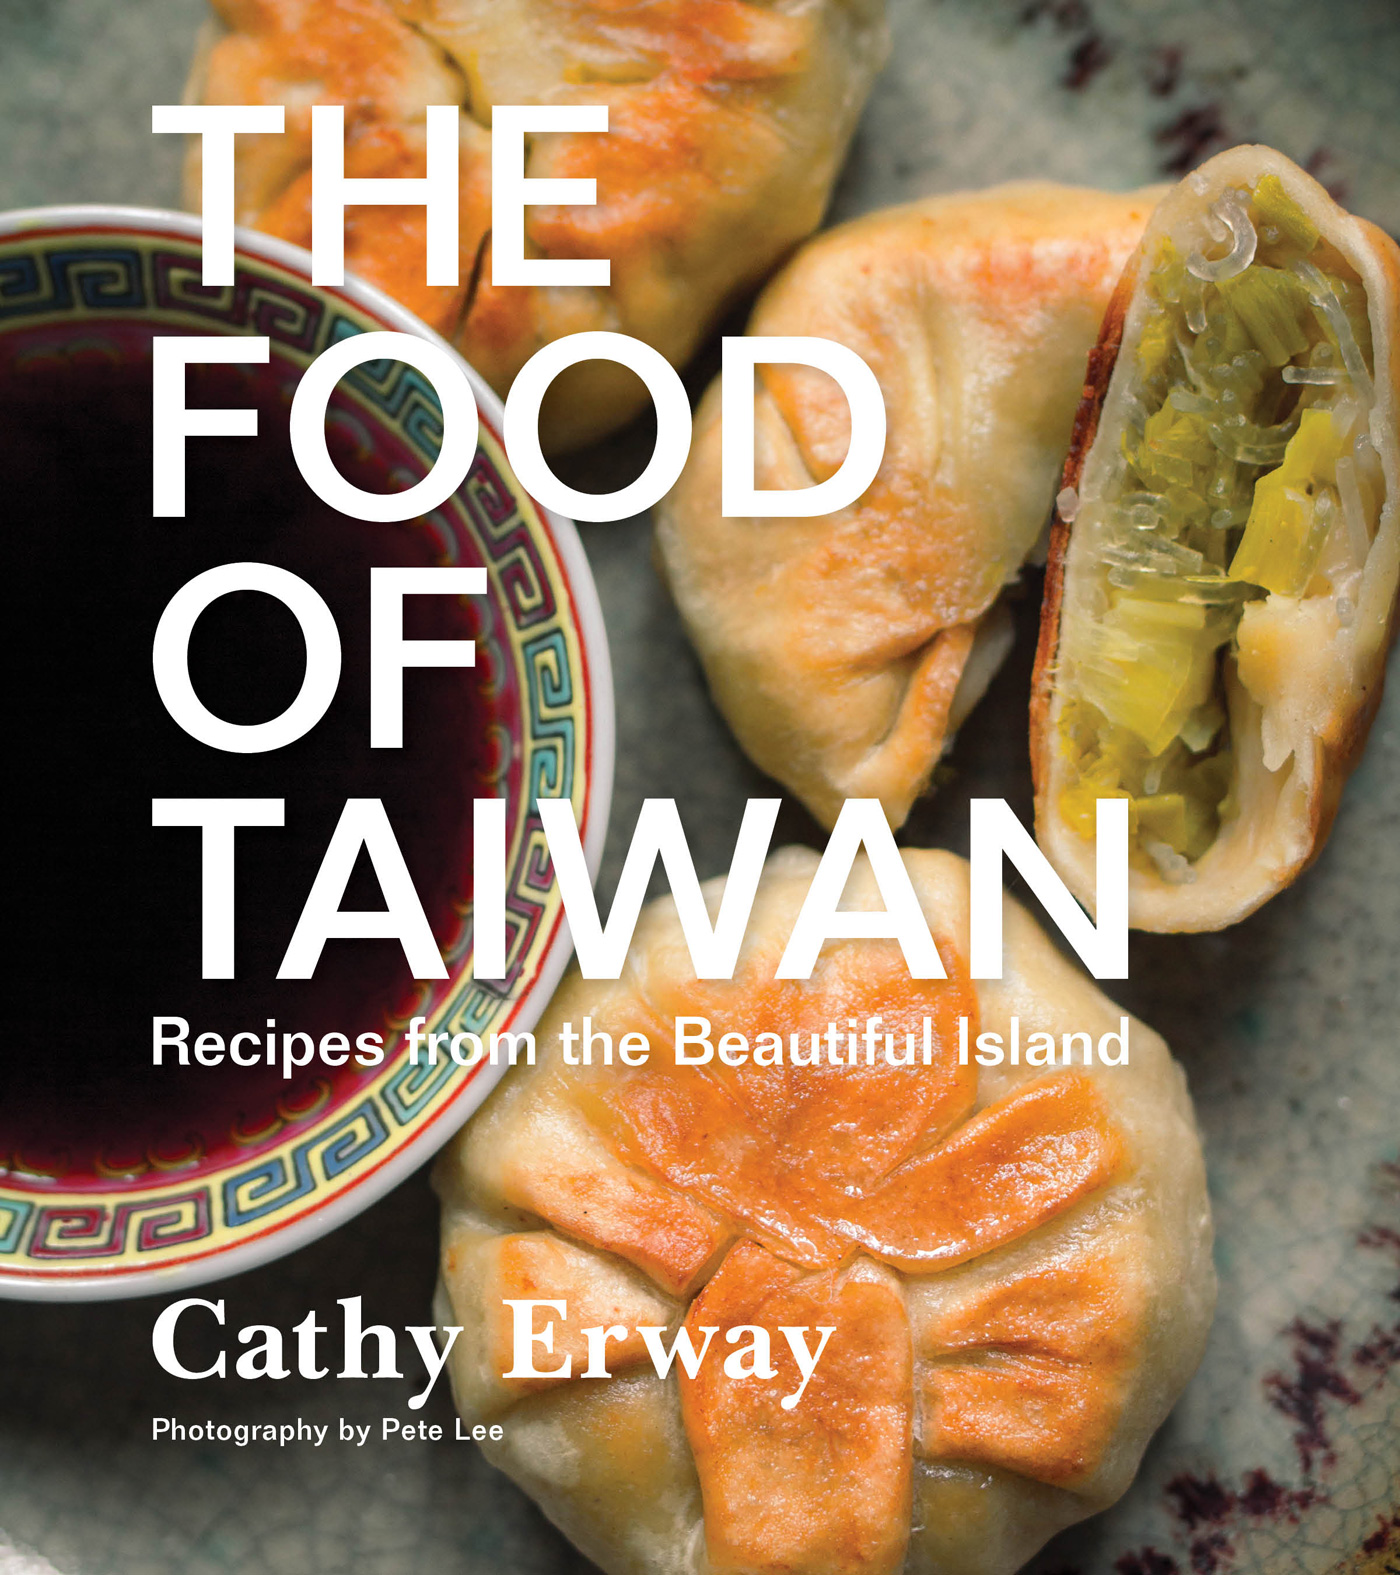
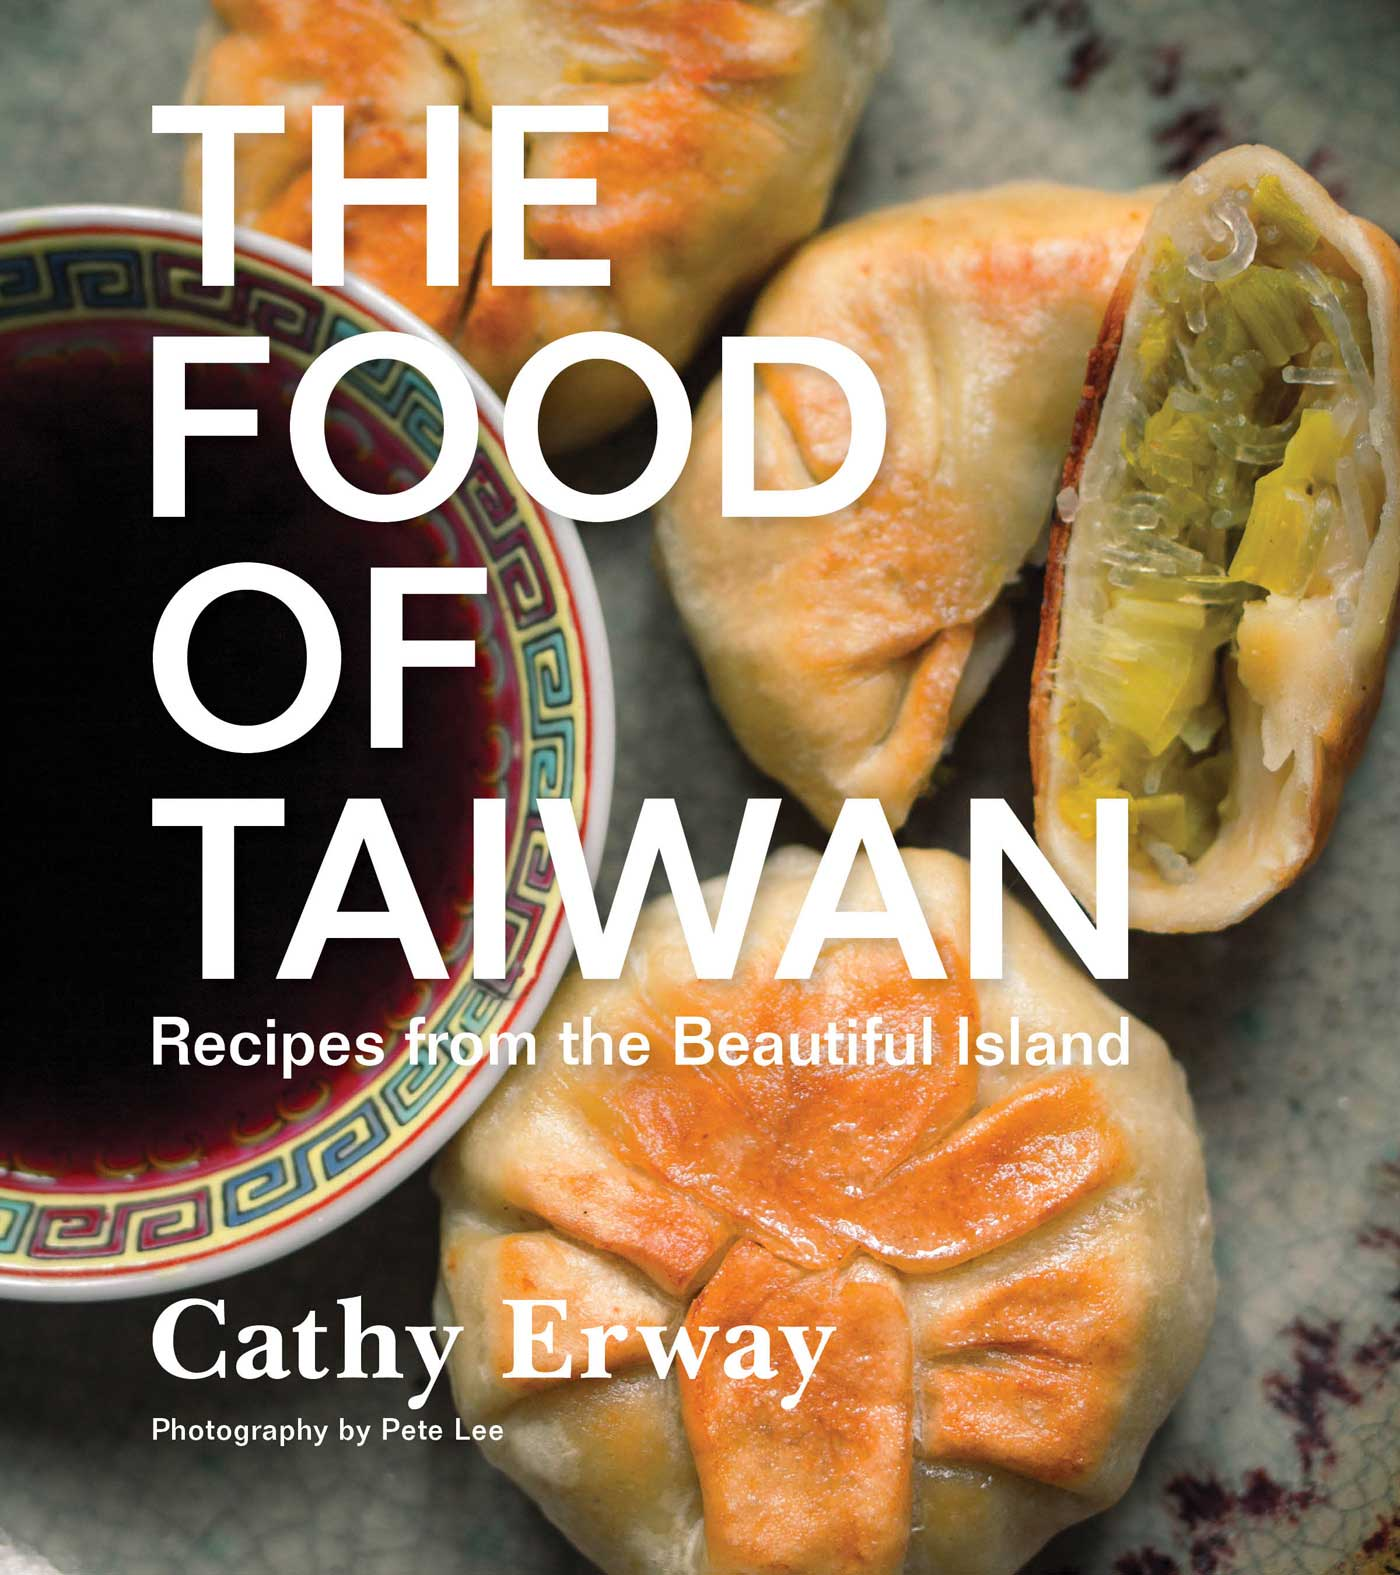
little layout, made book image smaller

diff --git a/css/style.css b/css/style.css
@@ -5,6 +5,9 @@ body {
   -o-background-size: cover;
   background-size: cover; }
 
+#book-img {
+  border-radius: 5px; }
+
 .full-width-col {
   padding: 0; }
 
@@ -26,5 +29,5 @@ body {
 
 @media only screen and (min-width: 40.063em) {
   .top-bot-padding {
-    padding-top: 1em;
-    padding-bottom: 1em; } }
+    padding-top: 1.5em;
+    padding-bottom: 1.5em; } }

diff --git a/sass/style.scss b/sass/style.scss
@@ -8,6 +8,9 @@ body {
 	background-size: cover;
 }
 
+#book-img {
+	border-radius: $global-radius;
+}
 
 .full-width-col {
 	padding: 0;
@@ -36,7 +39,7 @@ body {
 
 @media only screen and (min-width: 40.063em) {
 	.top-bot-padding {
-		padding-top: 1em;
-		padding-bottom: 1em; 
+		padding-top: 1.5em;
+		padding-bottom: 1.5em; 
 	}
 }

diff --git a/index.html b/index.html
@@ -51,7 +51,7 @@
         </div>
       </div>
       <div class="medium-5 large-6 columns" data-equalizer-watch>
-        <img src="photos/book.jpg">
+        <img src="photos/book.jpg" id="book-img">
       </div>
     </div>
 
